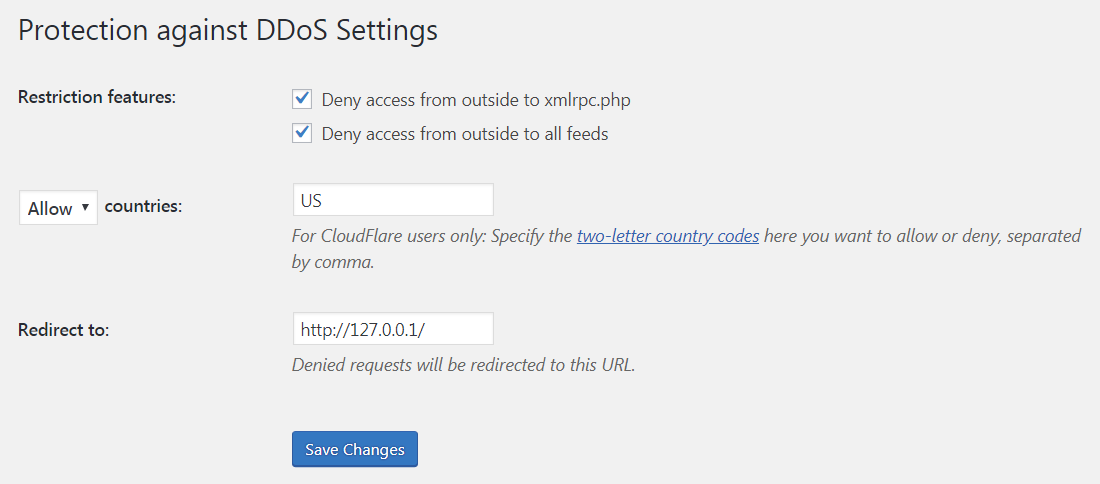
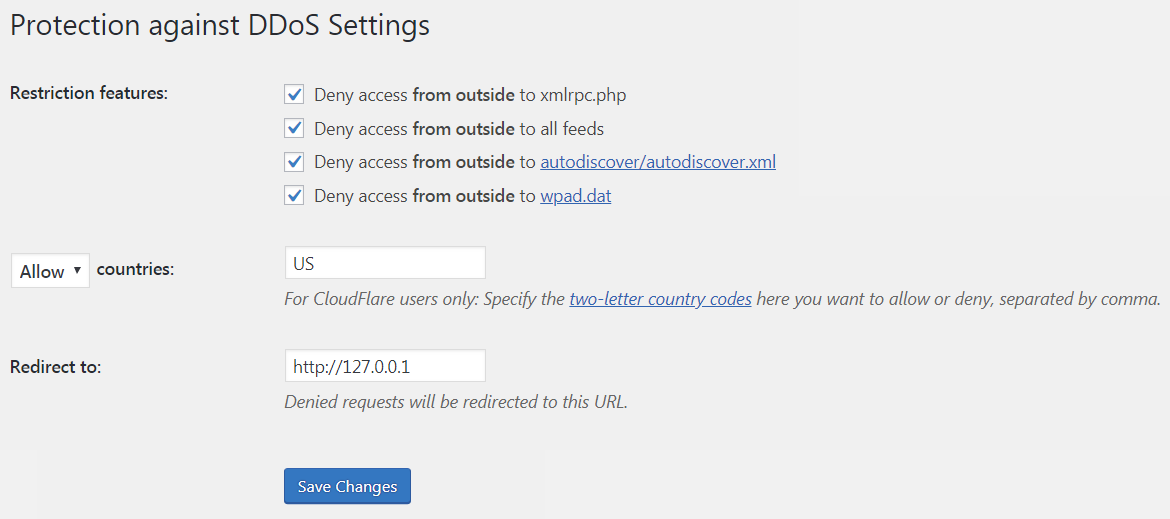
Version 1.5.2

diff --git a/protection-against-ddos.php b/protection-against-ddos.php
@@ -1,14 +1,12 @@
 <?php
-	/*
-	Plugin Name: Protection against DDoS
-	Plugin URI: http://aimbox.com
-	Description: Protection against DDoS.
-	Version: 1.5.2
-	Author: Aimbox
-	Author URI: http://aimbox.com
-	License: GPLv2 or later
-
-	*/
+/*
+Plugin Name: Protection against DDoS
+Description: Protection against DDoS.
+Author: WPChef
+Author URI: https://wpchef.org
+Text Domain: protection-against-ddos
+Version: 1.5.2
+*/
 
 	// Make sure we don't expose any info if called directly
 	if ( !function_exists( 'add_action' ) ) {
@@ -194,11 +192,11 @@
 							</label></p>
 							<p><label>
 								<input type="checkbox" name="<?php echo $this->option_name?>[deny_autodiscover]" value="1" <?php echo $settings['deny_autodiscover'] ? 'checked ':'' ?>/>
-                                    Deny access <b>from outside</b> to <a href="https://docs.microsoft.com/Exchange/architecture/client-access/autodiscover" target="_blank">/autodiscover/autodiscover.xml</a>
+                                    Deny access <b>from outside</b> to <a href="https://docs.microsoft.com/Exchange/architecture/client-access/autodiscover" target="_blank">autodiscover/autodiscover.xml</a>
 							</label></p>
 							<p><label>
 								<input type="checkbox" name="<?php echo $this->option_name?>[deny_wpad]" value="1" <?php echo $settings['deny_wpad'] ? 'checked ':'' ?>/>
-                                    Deny access <b>from outside</b> to <a href="https://wikipedia.org/wiki/Web_Proxy_Auto-Discovery_Protocol" target="_blank">/wpad.dat</a>
+                                    Deny access <b>from outside</b> to <a href="https://wikipedia.org/wiki/Web_Proxy_Auto-Discovery_Protocol" target="_blank">wpad.dat</a>
 							</label></p>
 					<tr>
 						<th>
